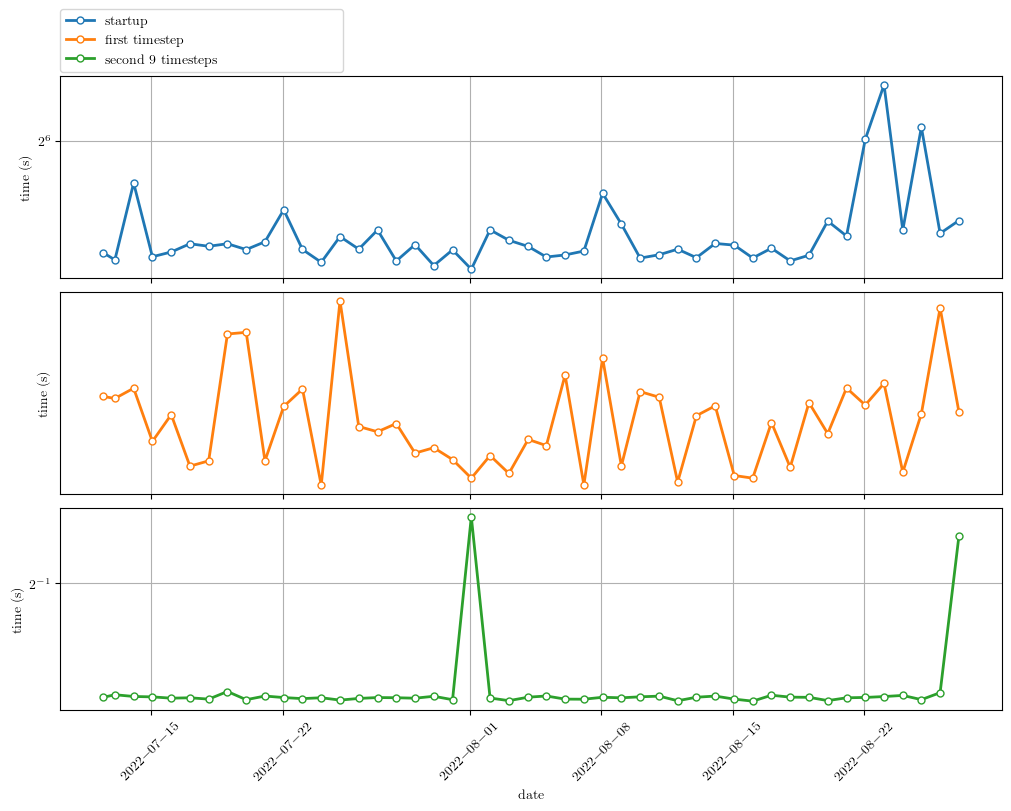
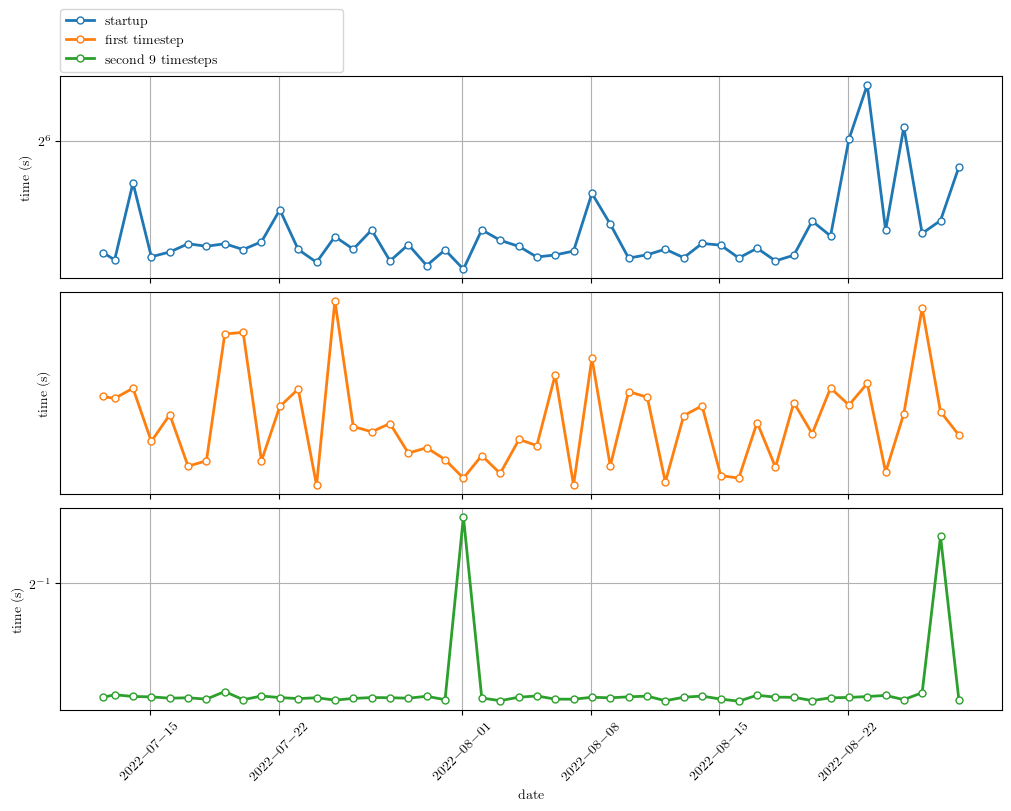
Automatic timing summary commit: lassen708 2022-08-28 01:00

diff --git a/README.md b/README.md
@@ -1,4 +1,4 @@
-Timings last ran on: 2022.08.27
+Timings last ran on: 2022.08.28
 
 # Status of production timings
 
